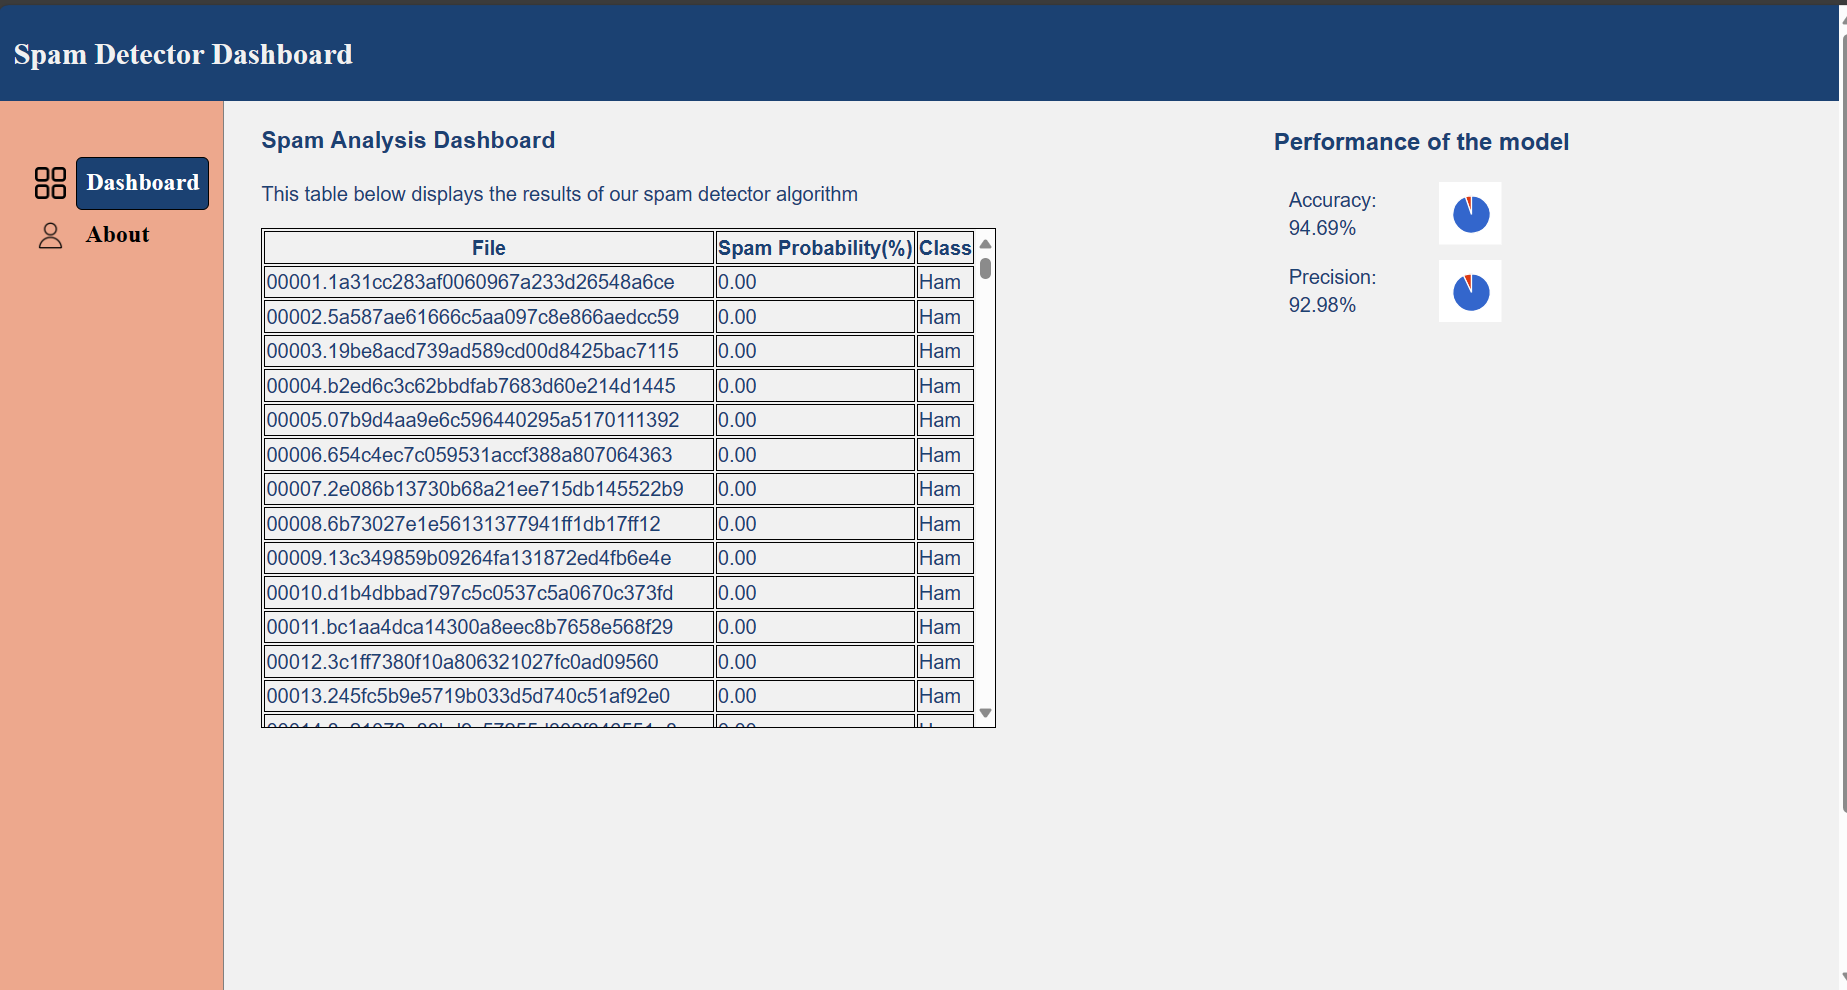
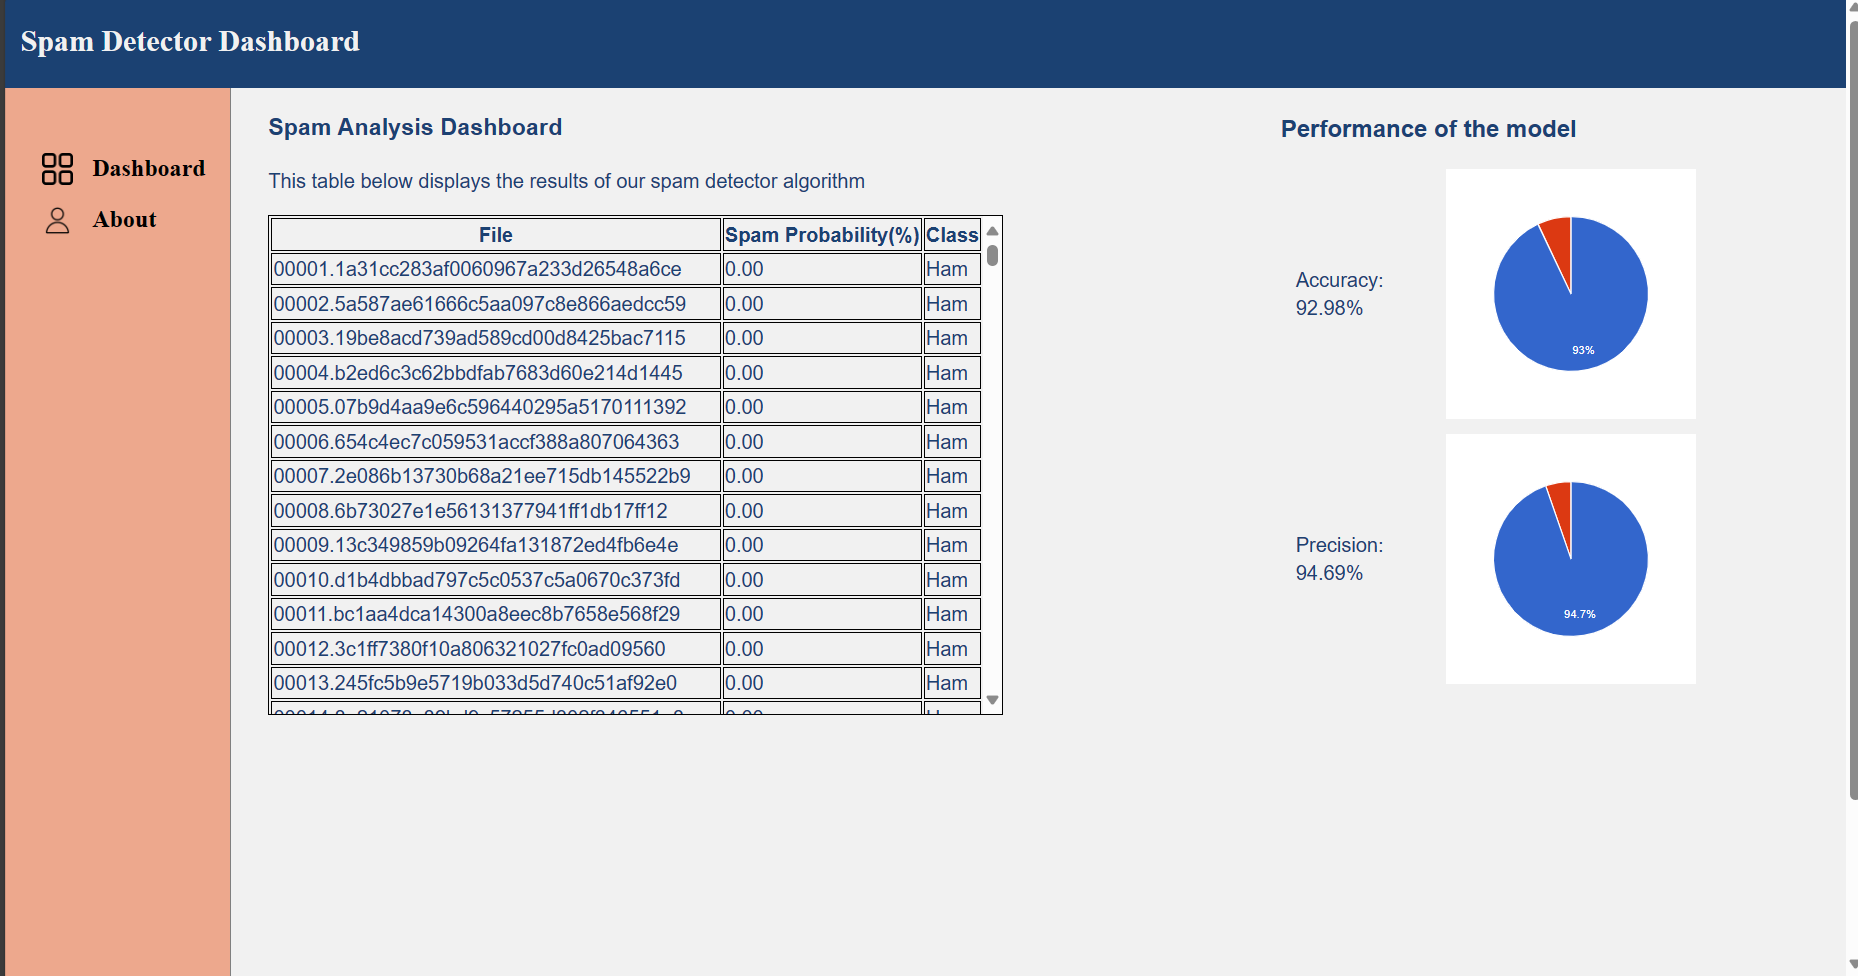
Fixed a css

diff --git a/SpamDetectorClient/css/main.css b/SpamDetectorClient/css/main.css
@@ -408,8 +408,8 @@ img{
   gap: 8px;
 }
 .chart {
-  height: 50px;
-  width: 50px;
+  height: 200px;
+  width: 200px;
   margin-left: 50px;
   border: solid;
   border-radius: 100%;
@@ -426,6 +426,7 @@ img{
 
 
 }
+
 
 table{
   overflow-y:scroll;
